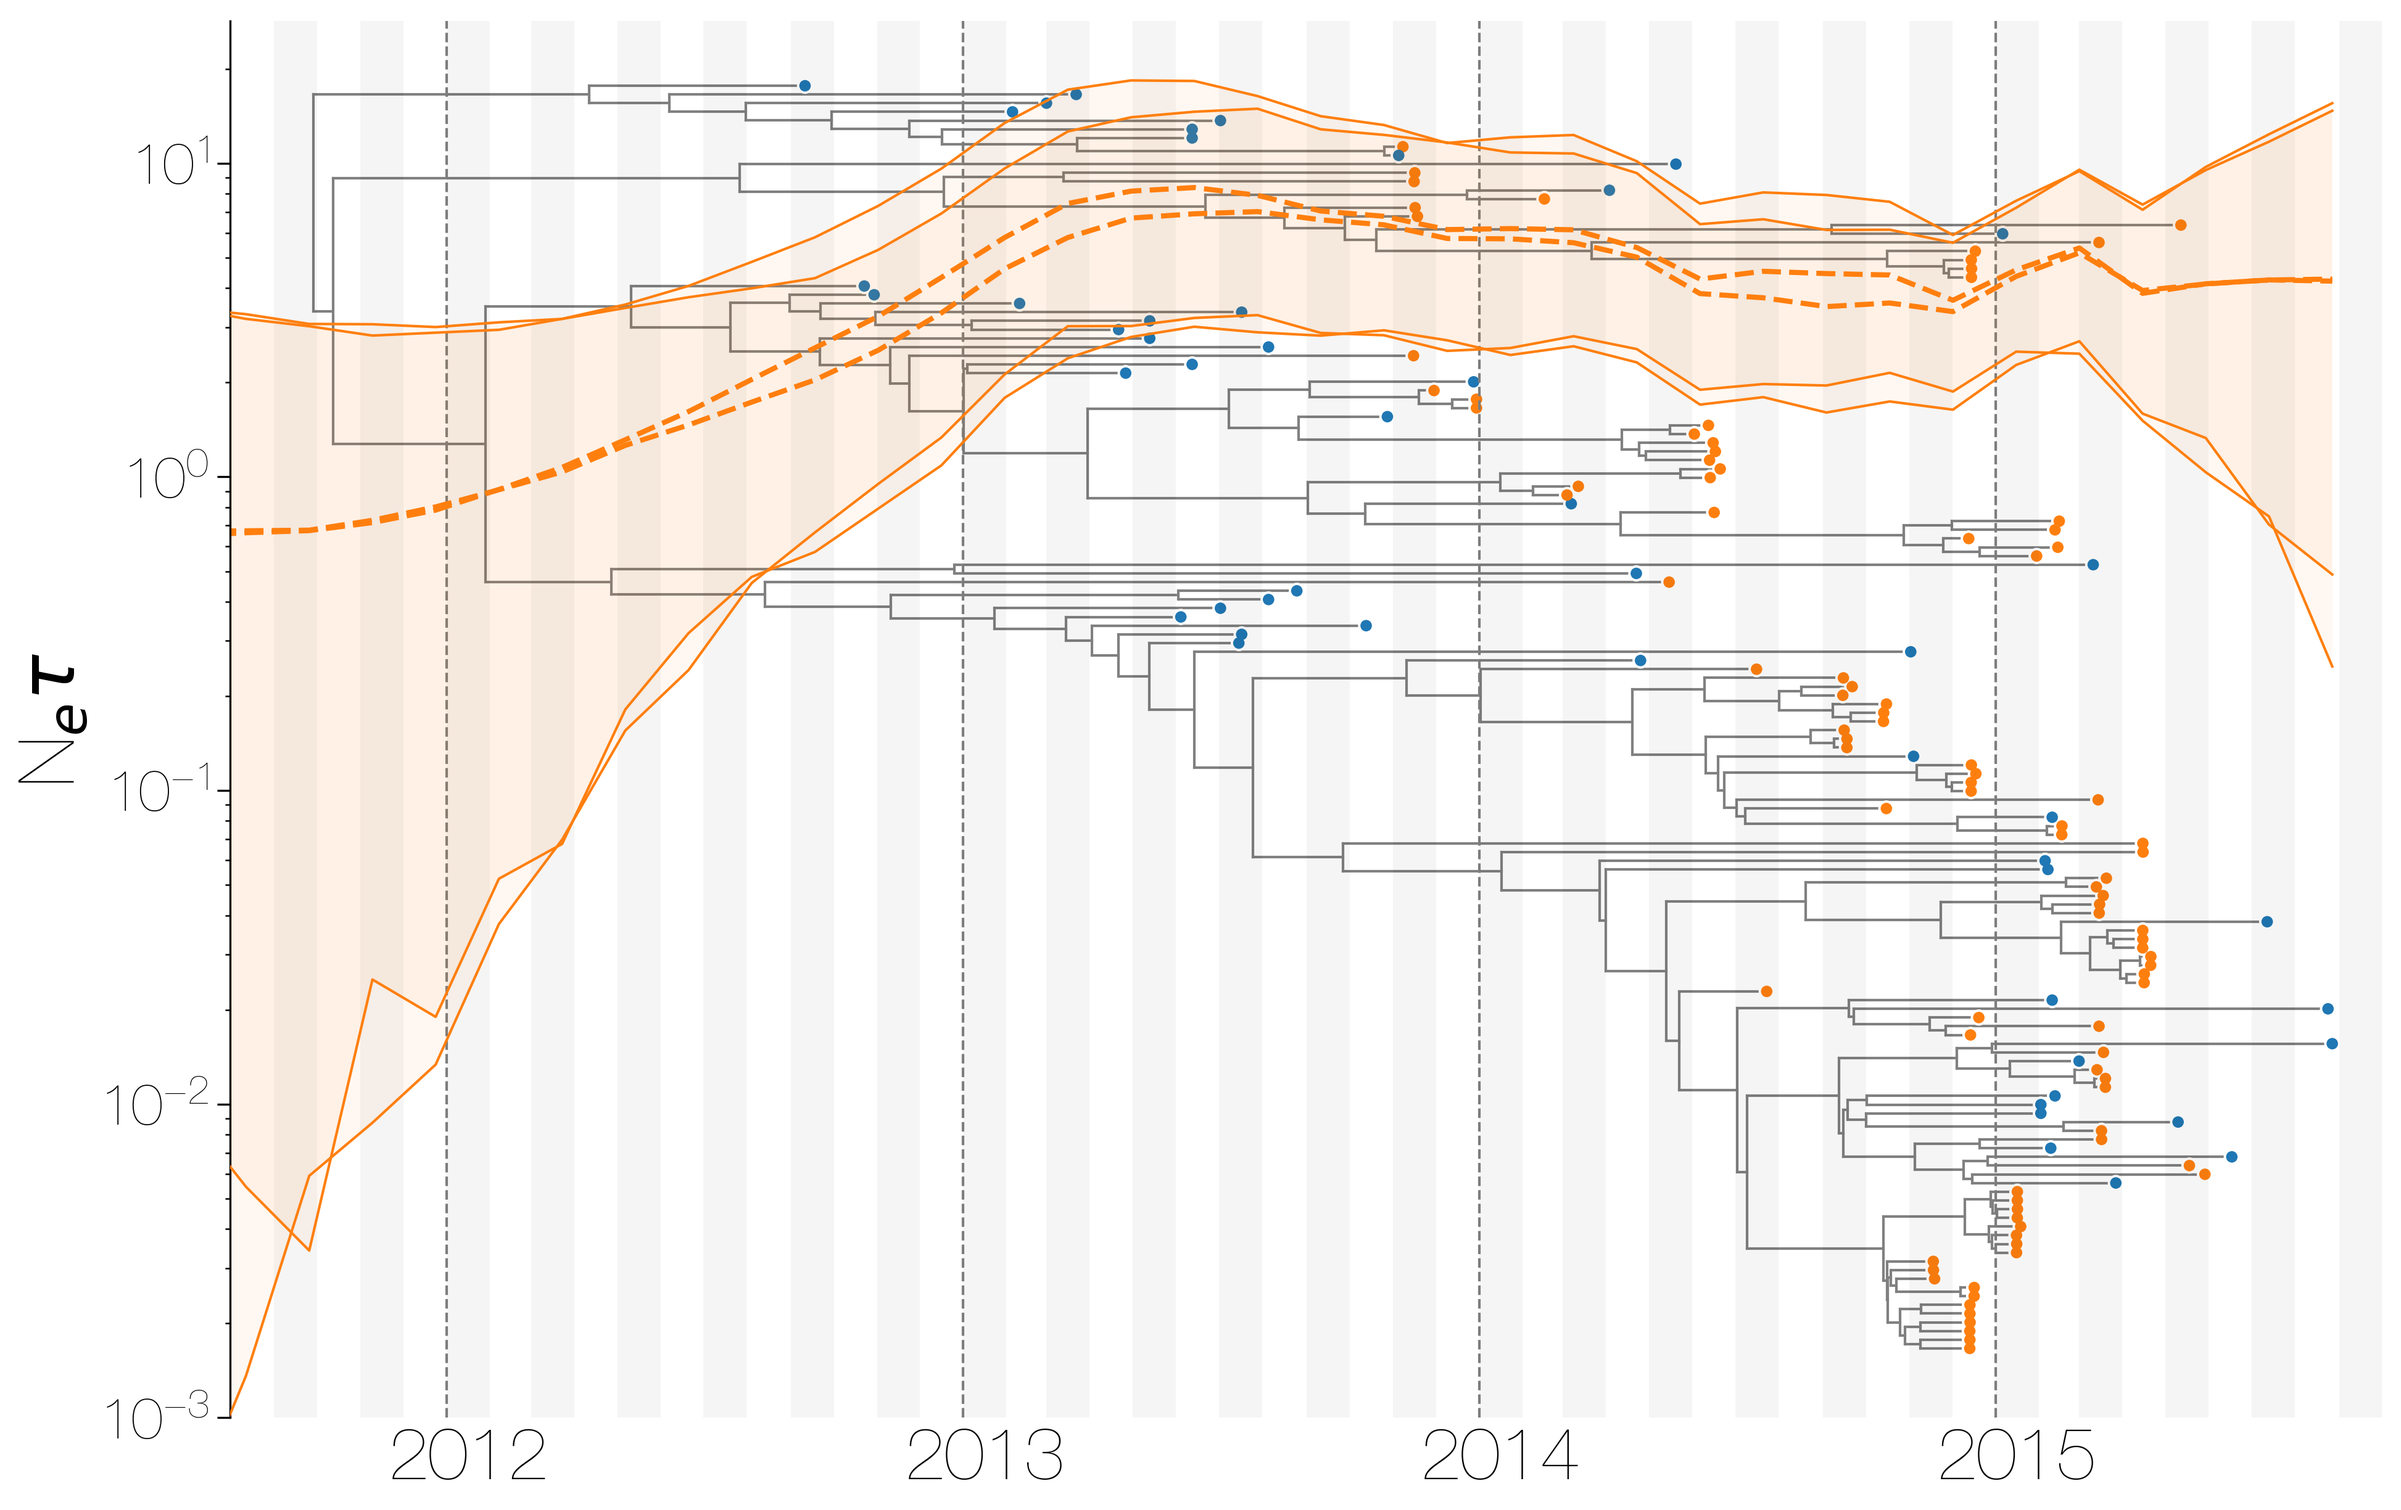
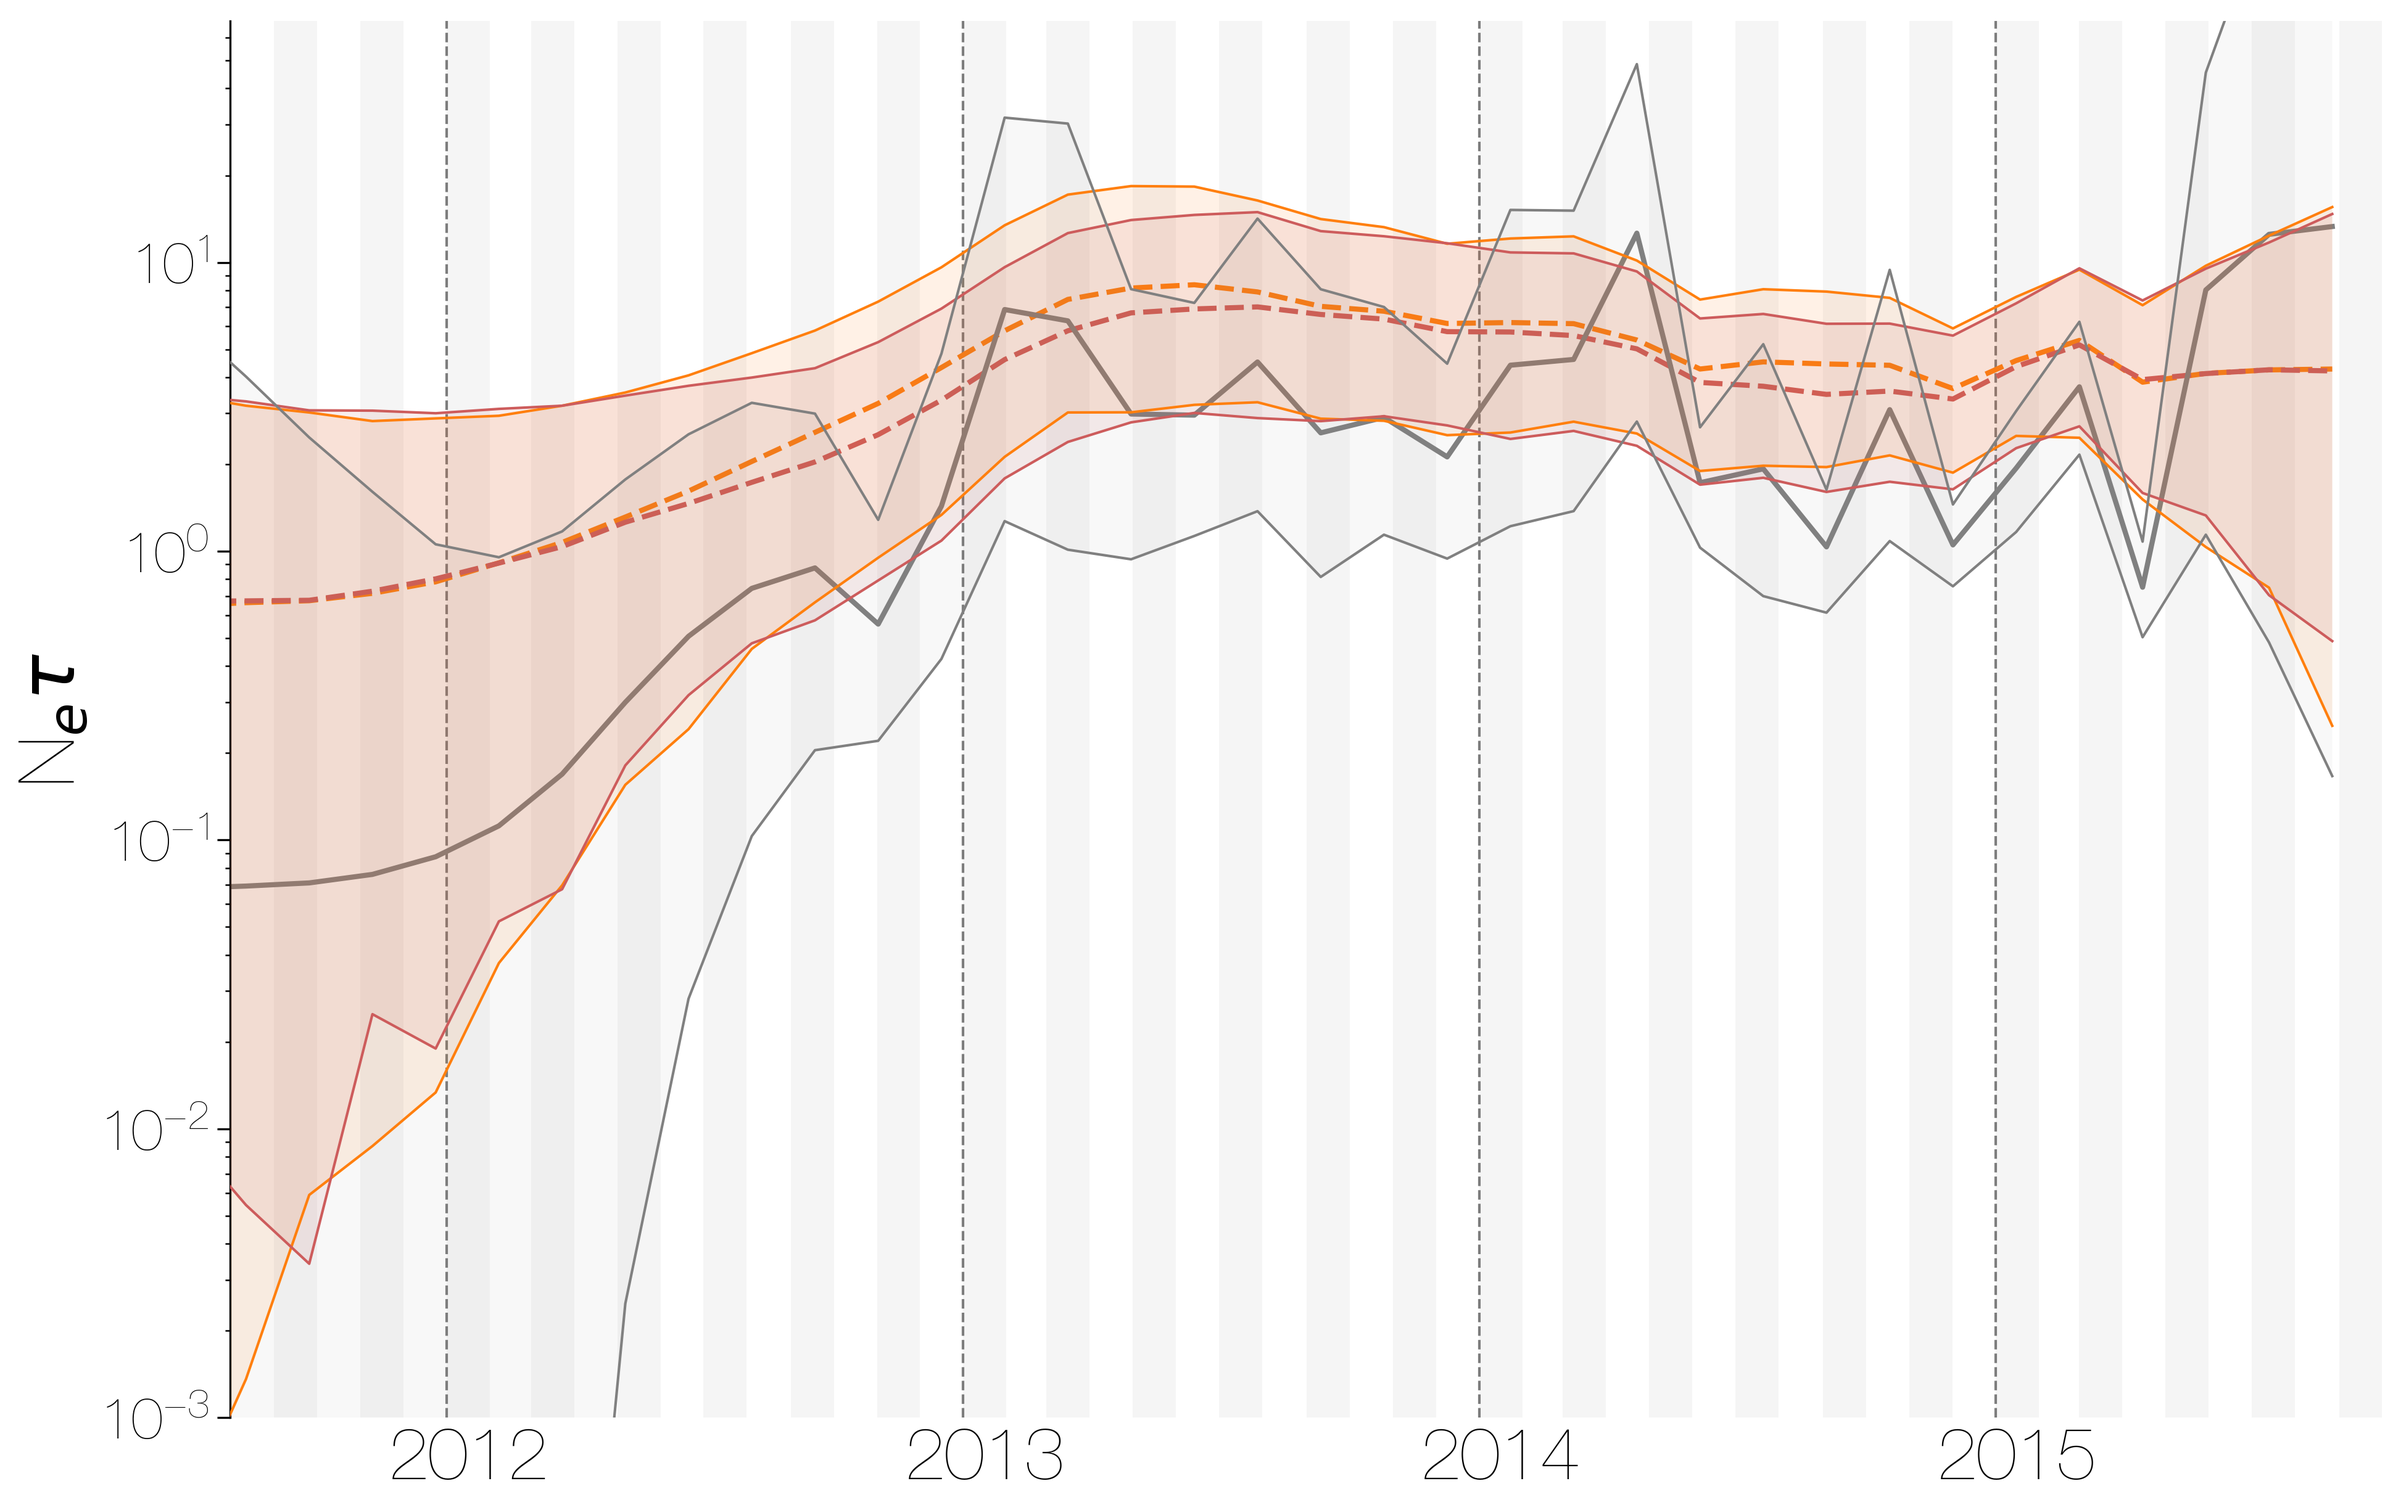
Text changes, add skygrid as main figure.

diff --git a/mers-structure.tex b/mers-structure.tex
@@ -185,7 +185,7 @@ Camel calving is reported to occur from October to February \citep{almutairi_non
 It is possible that MERS-CoV sweeps through each new camel generation once critical mass of susceptibles is reached \citep{martinez_seasonality_2014}, leading to a sharp rise in prevalence of the virus in camels and resulting in increased force of infection into the human population.
 Strong influx of susceptibles and subsequent sweeping outbreaks in camels may explain evidence of widespread exposure to MERS-CoV in camels from seroepidemiology \citep{muller_2014,corman_antibodies_2014,chu_2014,reusken_2013,reusken_2014}.
 
-Although we find evidence of seasonality in zoonotic spillover timing, no such relationship exists for sizes of human sequence clusters \tbc{reference a figure}.
+Although we find evidence of seasonality in zoonotic spillover timing, no such relationship exists for sizes of human sequence clusters (figure \ref{seasonality}C? \gdc{note - lettering might change}).
 This is entirely expected, since little seasonality in human behaviour that could facilitate MERS-CoV transmission is expected following an introduction.
 Similarly, we do not observe any trend in human sequence cluster sizes over time (Figure \ref{seasonality}B, Spearman $\rho = 0.06$, $p=0.68$), suggesting that MERS-CoV outbreaks in humans are neither growing nor shrinking in size.
 This is not surprising either, since MERS-CoV is a camel virus that has to date, experienced little-to-no selective pressure to improve transmissibility between humans.
@@ -256,7 +256,7 @@ These Monte Carlo simulations indicate $R_{0}$ for MERS-CoV is likely to be belo
 \end{figure}
 
 \subsection*{Recombination shapes MERS-CoV diversity}
-Recombination has been shown to occur in all genera of coronaviruses, including MERS-CoV \citep{lai_1985,makino_1986,keck_1988,kottier_1995,herrewegh_1998}. %\tbc{needs citations}.
+Recombination has been shown to occur in all genera of coronaviruses, including MERS-CoV \citep{lai_1985,makino_1986,keck_1988,kottier_1995,herrewegh_1998}.
 In order to explore the role of recombination in shaping MERS-CoV genetic diversity we used two recombination detection approaches across partitions of taxa corresponding to inferred MERS-CoV clades.
 Both methods rely on sampling parental and recombinant alleles within the alignment, although each quantifies different signals of recombination.
 One hallmark of recombination is the ability to carry alleles derived via mutation from one lineage to another, which appear as repeated mutations taking place in the recipient lineage, somewhere else in the tree.
@@ -276,7 +276,9 @@ This provides ideal conditions for co-infection with distinct genotypes, which i
 %%% AR - this paragraph is a bit of a mess. Suggests we can't trust most of the analysis above. If we can't believe the camel tree why do we trust a structured coalescent model?
 Conversely, our results strongly suggest that co-infection of humans with distinct lineages of MERS-CoV should be exceedingly rare.
 We find little evidence that recombination will interfere with the inference of human outbreak clusters (Figure \ref{recombinant_features}A).
-\tbc{Summarize Figure \ref{recombinant_features}A with something like: ``We find that 95\% of human viruses fall within the same introduction event in genomic fragment 1 and in genomic fragment 2.''}
+Between the two trees in figure \ref{recombinant_features}B four `human' clades are expanded where either singleton introductions or two-taxon clades in fragment 2 join other clades in fragment 1.
+For the reverse comparison there are five `human' clades in fragment 2 that are expanded.
+All such clades have low divergence (figure \ref{recombinant_features}B) and thus incongruences in human clades are more likely to be caused by differences in deme assignment rather than actual recombination.
 And while we observe evidence of distinct phylogenetic trees from different parts of the MERS-CoV genome (Figure \ref{recombinant_features}B), human clades are minimally affected and large portions of the posterior probability density in both parts of the genome are concentrated in shared clades (Figure \ref{flower}).
 Critically, we observe the same source-sink dynamics between camel and human populations in trees constructed from separate genomic fragments as were observed in the original full genome tree (Figures \ref{mcc}, \ref{recombinant_features}B).
 Observed departures from strictly clonal evolution suggest that while recombination is an issue for inferring MERS-CoV phylogenies, its effect on the human side of MERS outbreaks is minimal, as expected.
@@ -347,6 +349,19 @@ While this could be tested by looking for seasonally varying patterns in selecti
 
 % In order to disentangle distinct demographic modes within the phylogeny of MERS-CoV we split our alignment according to whether the virus was collected from camels or humans.
 % For sequences collected from humans and inferred to be in the same cluster we only keep the earliest sequence, and arrive at a sequence dataset that for the most part is comprised of viral diversity present in camels, and supplemented with human sequences that are treated as sentinel samples.
+
+\begin{figure}[h]
+\centering
+	\includegraphics[width=0.65\textwidth]{figures/mers_skygrid.png}
+	\caption{\textbf{Demographic history of MERS-CoV in Arabian peninsula camels.}
+Demographic history of MERS-CoV in camels, as inferred via a skygrid coalescent tree prior \citep{gill_2013}.
+Three skygrid reconstructions are shown, red and orange for each of the stationary distributions reached by MCMC with the whole genome and a black one where the genome was split into ten partitions.
+Shaded interval indicates the 95\% highest posterior density interval for the product of generation time and effective population size, $N_{e}\tau$.
+Midline tracks the inferred median of $N_{e}\tau$.
+%Maximum clade credibility (MCC) tree from the skygrid was inferred is shown in the background, with camel sequences highlighted in orange and human sequences highlighted in blue.
+	}
+	\label{skygrid}
+\end{figure}
 
 
 \section*{Discussion}
@@ -444,23 +459,23 @@ This model estimates 4 parameters: rate of coalescence in human viruses, rate of
 Analyses were run on codon position partitioned data with two separate HKY+$\Gamma_{4}$ \citep{hky_1985,yang_1994} nucleotide substitution models specified for codon positions 1+2 and 3.
 A relaxed molecular clock with branch rates drawn from a lognormal distribution \citep{drummond_2006} was used to infer the evolutionary rate from date calibrated tips.
 Default priors were used for all parameters except for migration rates between demes for which an exponential prior with mean 1.0 was used.
-All analyses were run for 200 million steps across ten independent Markov chains (MCMC runs) and states were sampled every \tbc{XXX} steps.
+All analyses were run for 200 million steps across ten independent Markov chains (MCMC runs) and states were sampled every 20 000 steps.
 Due to the complexity of multitype tree parameter space 50\% of states from every analysis were discarded as burn-in, convergence assessed in Tracer v1.6 and states combined using LogCombiner distributed with BEAST v2.4.3 \citep{bouckaert_beast_2014}.
 Three chains out of ten did not converge and were discarded altogether.
-This left \tbc{XXX} states on which to base posterior inference.
+This left 70 000 states on which to base posterior inference.
 
 As a secondary analysis to test robustness to choice of prior, we set up an analysis where we increased the mean of the exponential distribution prior for migration rate to 10.0.
 All other parameters were identical to the primary analysis and as before 10 independent MCMC chains were run.
 In this case, two chains did not converge.
-This left \tbc{XXX} states on which to base posterior inference.
+This left 80 000 states on which to base posterior inference.
 
-As an additional secondary analysis, we also considered a scenario where alignments were split into two fragments (fragment 1 comprised of positions 1-21000, fragment 2 of positions 21000-onwards), with independent clocks, trees and migration rates, but shared substitution models and deme population sizes.
+As an additional secondary analysis, we also considered a scenario where alignments were split into two fragments (fragment 1 comprised of positions 1-21000, fragment 2 of positions 21000-29364), with independent clocks, trees and migration rates, but shared substitution models and deme population sizes.
 Fragment positions were chosen based on consistent identification of the region around nucleotide 21000 as a probable breakpoint by GARD \citep{pond_gard:_2006} by previous studies into SARS and MERS coronaviruses \citep{hon_evidence_2008,dudas_mers-cov_2016}.
 All analyses were set to run for 200 million states, subsampling every 20 000 states.
 Chains not converging after 200 million states were discarded.
 20\% of the states were discarded as burn-in, convergence assessed with Tracer 1.6 and combined with LogCombiner.
 Three chains out of ten did not converge.
-This left \tbc{XXX} states on which to base posterior inference.
+This left 70 000 states on which to base posterior inference.
 
 \subsubsection*{Introduction seasonality}
 
@@ -532,8 +547,7 @@ Sequences belonging to the outgroup clade where most of MERS-CoV sequences from 
 A flexible skygrid tree prior \citep{gill_2013} was used to recover estimates of relative genetic diversity ($N_{e}\tau$) at 50 evenly spaced grid points across six years, ending at the most recent tip in the tree (2015 August) in BEAST v1.8.4 \citep{drummond_bayesian_2012}.
 We set up five independent MCMC chains to run for 500 million states, sampling every 50 000 states.
 This analysis suffered from poor convergence, where two chains converged onto one stationary distribution, two to another and the last chain onto a third stationary distribution, with high effective sample sizes.
-Demographic trajectories recovered by the two main stationary distributions are very similar and differences between the two appear to be caused by convergence onto different tree topologies, with onward effects on evolutionary rate estimates and distributions of coalescence times.
-\tbc{This statement seemd a bit strong, as it looked like the $N_{e}\tau$ trajectory was highly similar between these different stationary distributions.}
+Demographic trajectories recovered by the two main stationary distributions are very similar and differences between the two appear to be caused by convergence onto subtly different tree topologies.
 This non-convergence effect may have been masked previously by the use of all available MERS-CoV sequences from humans which may have lead MCMC towards one of the multiple stationary distributions.
 
 \subsection*{Data availability}
@@ -947,19 +961,6 @@ The cumulative probability of human clades present in either tree are tracked by
 Most of the probability mass is concentrated within human clades that are present in trees of both genomic fragment 1 and 2 (0.9701 and 0.9474 of all human clades across posteriors, respectively).
 	}
 	\label{flower}
-\end{figure}
-
-\begin{figure}[h]
-\centering
-	\includegraphics[width=0.65\textwidth]{figures/mers_skygrid.png}
-	\caption{\textbf{Demographic history of MERS-CoV in Arabian peninsula camels.}
-Demographic history of MERS-CoV in camels, as inferred via a skygrid coalescent tree prior \citep{gill_2013}.
-Two skygrid reconstructions are shown, one for each of the stationary distributions reached by MCMC.
-Shaded interval indicates the 95\% highest posterior density interval for the product of generation time and effective population size, $N_{e}\tau$.
-Midline tracks the inferred median of $N_{e}\tau$.
-Maximum clade credibility (MCC) tree from the skygrid was inferred is shown in the background, with camel sequences highlighted in orange and human sequences highlighted in blue.
-	}
-	\label{skygrid}
 \end{figure}
 
 \end{document}
